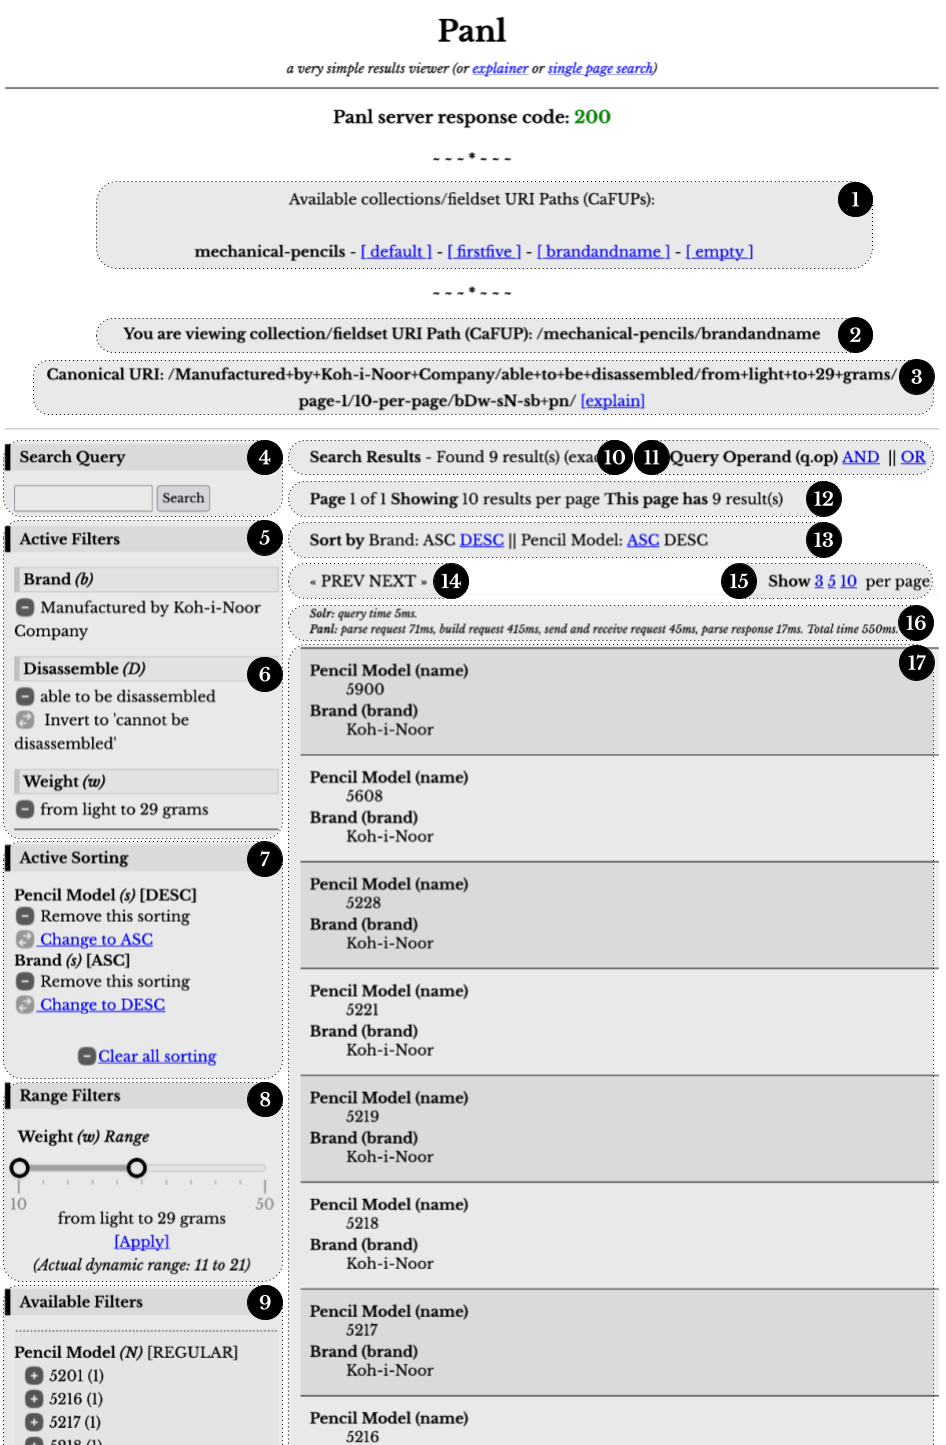
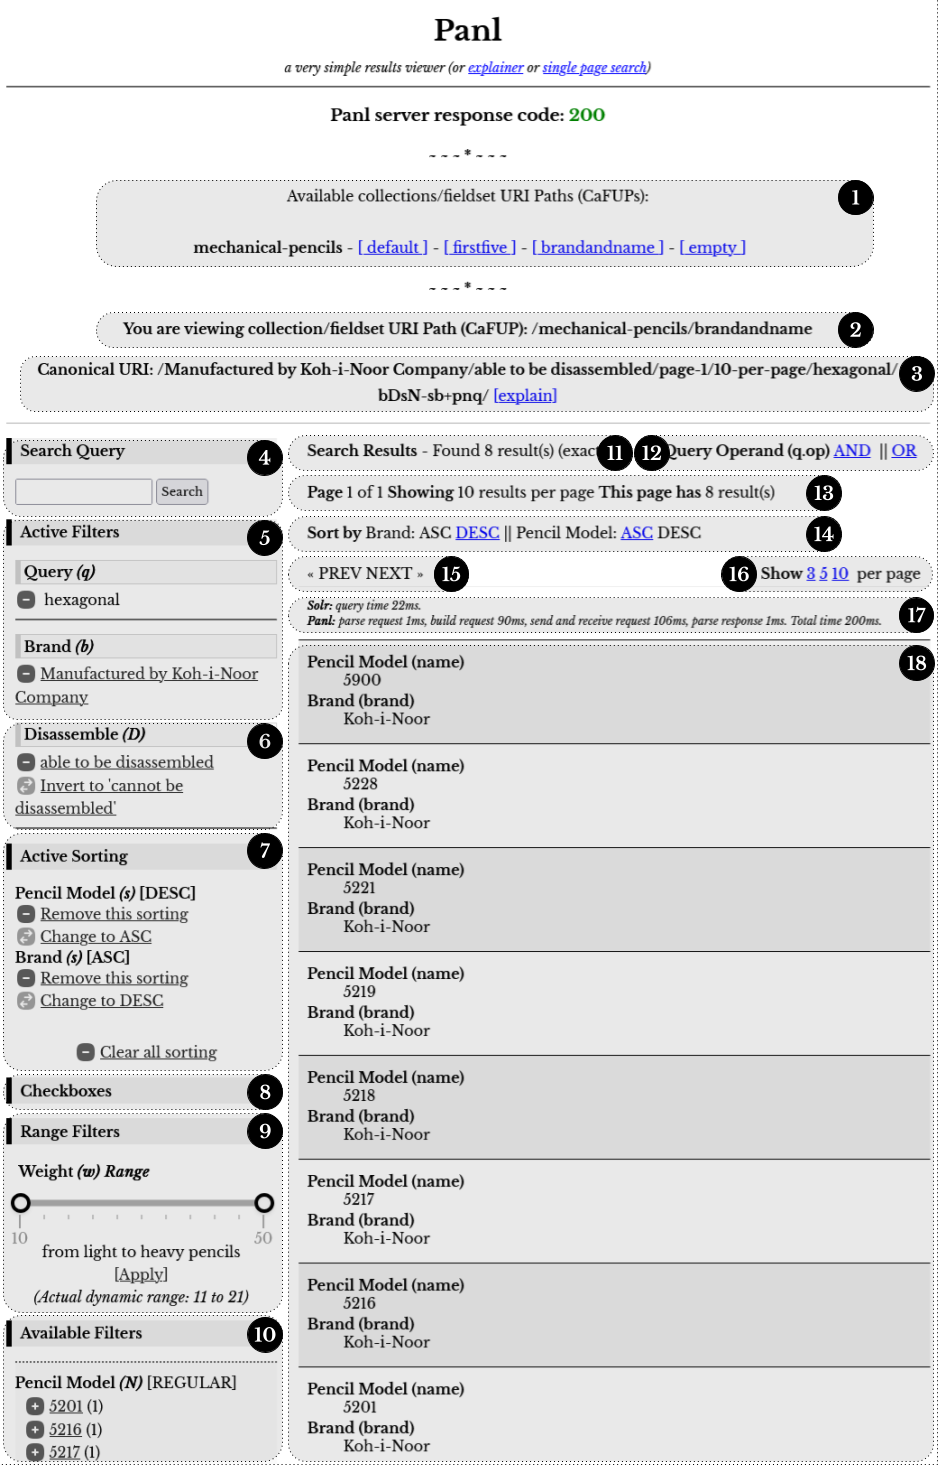
Updated README and added BOOLEAN checkboxes with the new panl features image

Changed region(s): [[0.0, 0.0, 1.0, 1.0], [0.8657, 0.1246, 0.9275, 0.1557], [0.5256, 0.9965, 0.5874, 1.0]]

diff --git a/README.md b/README.md
@@ -280,8 +280,12 @@ results._
 1. **Active sorting** - sorting options that are currently ordering the
    results - the `[-]` link is the URI path that will remove this query, facet,
    or sorting option from the results. If it is an active sorting filter, the
-   `[≫] Change to DESC` or `[≫] Change to ASC` links will invert the sorting
+   `[ ] Change to DESC` or `[ ] Change to ASC` links will invert the sorting
    order without affecting any further sub-ordering.
+
+1. **BOOLEAN Checkboxes** - any facets that have been defined as BOOLEAN 
+   checkboxes, which allows the integrator to highlight one of the values 
+   (either true or false).
 
 1. **RANGE filters** - for facets that are defined as ranges - allowing
    end-users to select a range of values - the values are inclusive (i.e.
